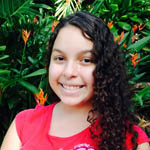
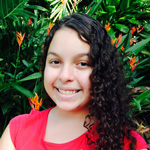
Fixed the images

diff --git a/_members/rizve.md b/_members/rizve.md
@@ -4,7 +4,7 @@ sort: 3
 real_name: "Rizve Hasan"
 job_title: "Marketing Consultant"
 email: "Rizve@TASSUSA.com"
-picture: "picture-1536-1401830628.jpg"
+picture: "rizve.jpg"
 ---
 #### Previous Positions:
 - Head of Planning & Strategy, PRAN-RFL Group,
